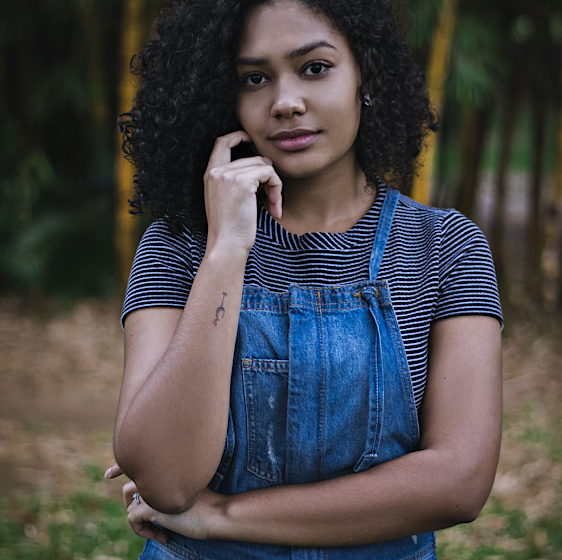
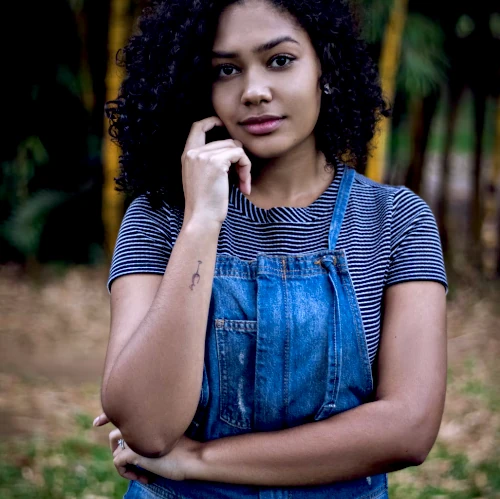
modifications images nina-carducci et srcset/sizes

diff --git a/index.html b/index.html
@@ -8,7 +8,7 @@
 			integrity="sha384-9ndCyUaIbzAi2FUVXJi0CjmCapSmO7SnpJef0486qhLnuZ2cdeRhO02iuK6FUUVM"
 			crossorigin="anonymous"
 		/>
-		<link rel="stylesheet" href="./assets/style.min.css" />
+		<link rel="stylesheet" href="./assets/style.css" />
 		<link rel="preconnect" href="https://fonts.googleapis.com" />
 		<link rel="preconnect" href="https://fonts.gstatic.com" crossorigin />
 		<link
@@ -149,11 +149,13 @@
 				<img
 					src="./assets/images/nina-carducci.webp"
 					srcset="
-						./assets/images/nina-carducci.webp      1920w,
-						./assets/images/nina-carducci-1440.webp 1440w,
-						./assets/images/nina-carducci-650.webp   650w,
-						./assets/images/nina-carducci-320.webp   320w
+						./assets/images/nina-carducci.webp     500w,
+						./assets/images/nina-carducci-400.webp 400w,
+						./assets/images/nina-carducci-320.webp 320w
 					"
+					sizes="(max-width: 1000px) 400px,
+					(max-width: 650px) 320px,
+					500px"
 					alt="Nina Carducci"
 					loading="lazy"
 				/>

diff --git a/assets/style.css b/assets/style.css
@@ -62,7 +62,7 @@ body {
 }
 
 .picture {
-	flex: 1;
+	width: 500px;
 	margin: 0 20px;
 	z-index: 0;
 }
@@ -263,9 +263,6 @@ input[type="submit"] {
 }
 
 @media all and (max-width: 1180px) {
-	.picture {
-		flex: 2;
-	}
 	#about,
 	#contact .container {
 		align-items: center;
@@ -285,7 +282,7 @@ input[type="submit"] {
 		flex-direction: column;
 	}
 	.picture {
-		width: 50%;
+		width: 400px;
 	}
 	.picture.left::before {
 		width: 100%;
@@ -373,5 +370,6 @@ input[type="submit"] {
 	}
 	.picture {
 		width: 80%;
+		max-width: 320px;
 	}
 }
